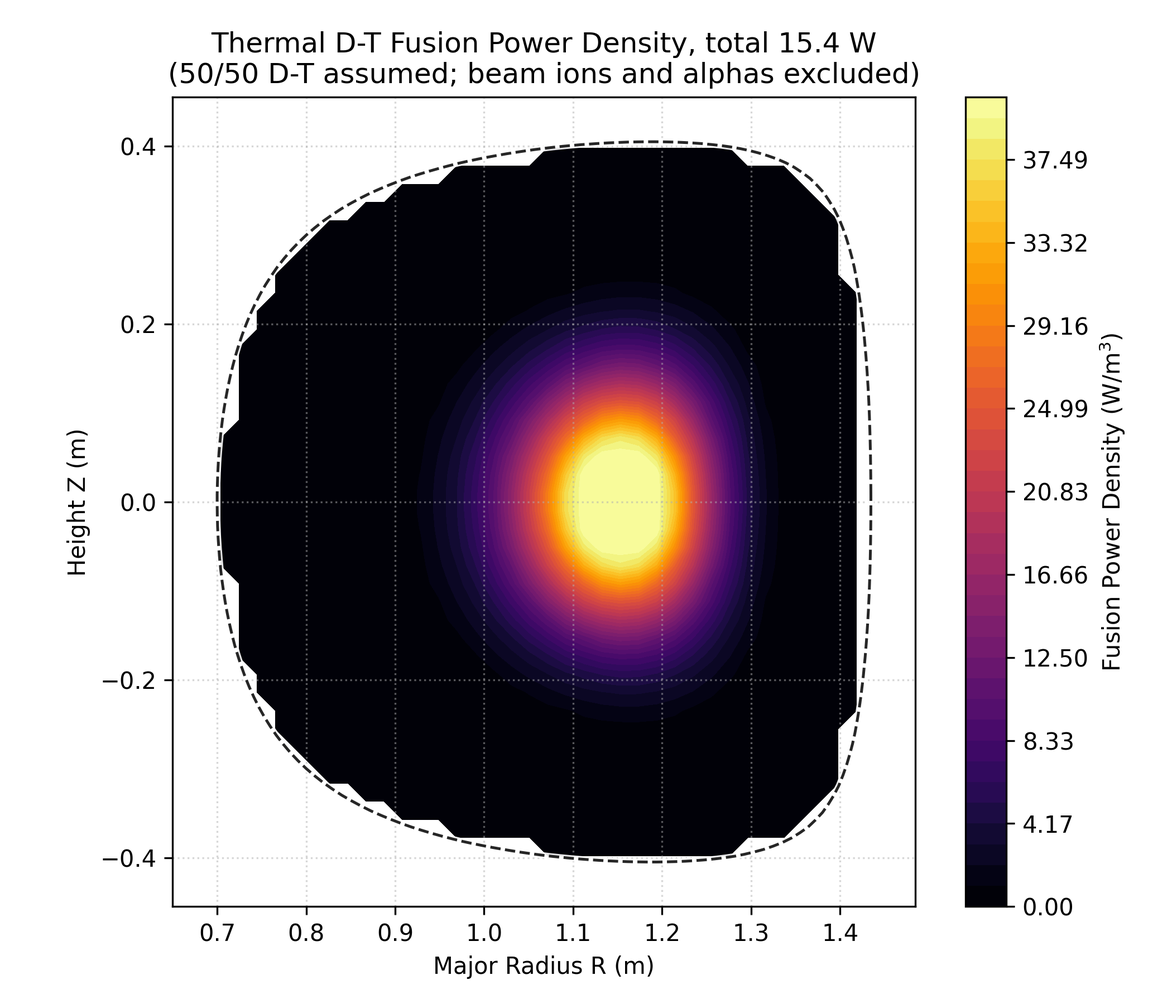
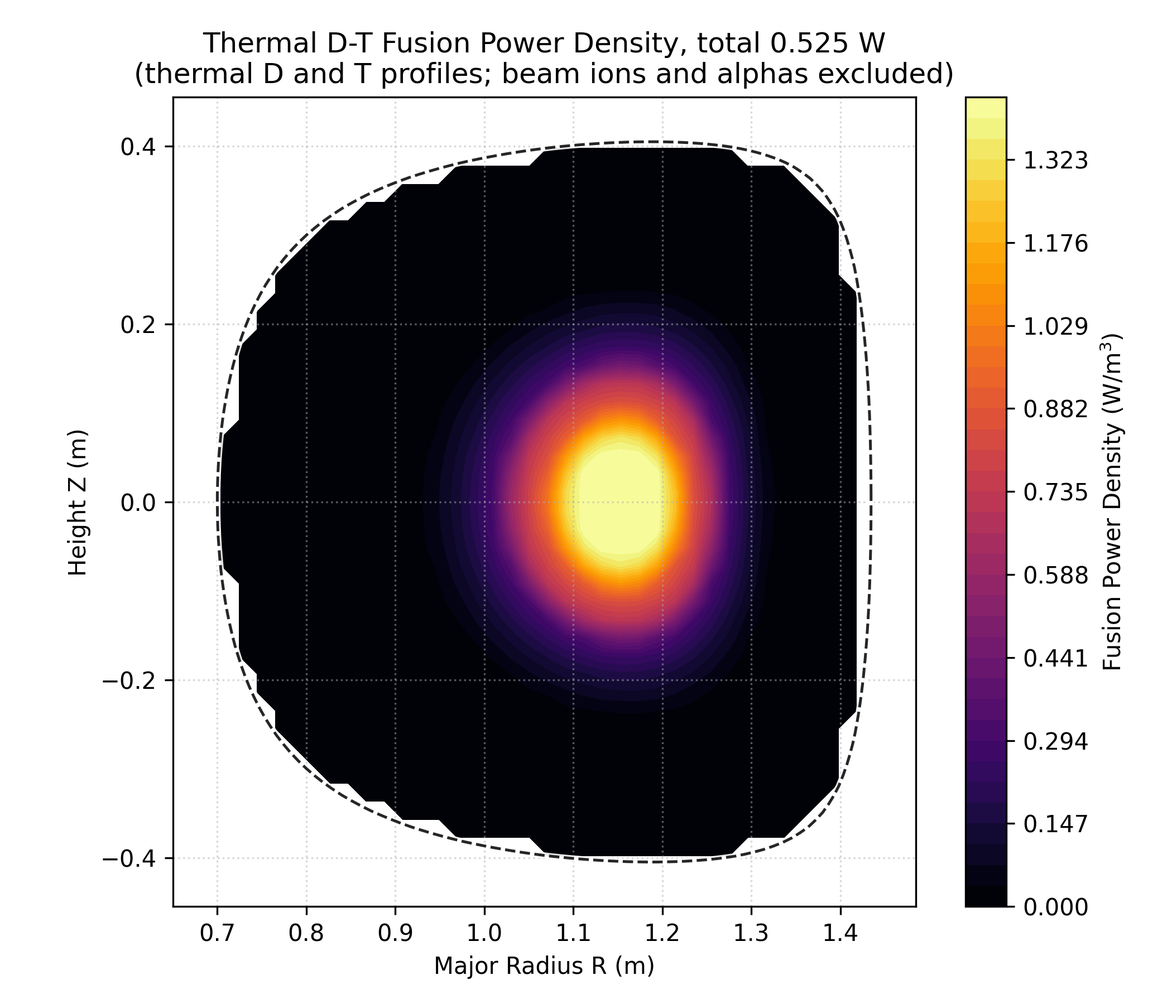
Tier2 Phase 6: plots and README describe the Tier 2 species and sources
Plots:
- radial_profiles.png: thermal T is its own species; the "thermal beta"
  in the title is now D + T (it read species 0 only).
- plasma_stored_energy_time.png: one trace per species (thermal D,
  thermal T dashed, beam D, alpha) in joules on a log axis.
- tokamak_reactor_2d/3d.png, alpha_orbits.png, phase_space_map.png:
  thermal tritium drawn in its own colour with its own legend entry.
- alpha_orbits.png: title says the alphas are born from the computed
  thermal D-T fusion rate (it still samples the tracked alphas).
- fusion_power_density.png: the 50/50 D-T disclaimer is replaced by
  "thermal D and T profiles; beam ions and alphas excluded".
Plot names are unchanged, so tools/plot_manifest.py is too;
record-plots + compare-plots pass.

README: species and pools, per-species weights, the beam calibrated by
power, the fusion-driven alpha source, thermal-only temperature and
Lawson inputs. Limitations drop the scheduled-alpha, 50/50 D-T and
beam-strength entries and state that collisions are still fixed-rate
isotropic re-randomisation, alpha drag a fixed ALPHA_SLOWING_TIME, the
10 us run far shorter than either slowing-down time, and that the SPI
drain also scales beam ions. Performance gains an "after Tier 2" line
(55 s).

docs/images: alpha_orbits, fusion_power_density and tokamak_reactor_3d
from a fresh production run (FUSION_HEADLESS=1 python main.py).

diff --git a/diagnostics.py b/diagnostics.py
@@ -18,7 +18,10 @@ import numpy as np
 import pandas as pd
 from matplotlib.lines import Line2D
 from visualizer import PlasmaVisualizer
-from physics_engine import interpolate_psi_array
+from physics_engine import interpolate_psi_array, STORED_ENERGY_SPECIES
+
+# One colour per species for the line plots (profiles, stored energy), keyed by type code.
+SPECIES_COLOR = {0: "tab:blue", 1: "tab:orange", 2: "tab:pink", 3: "tab:green"}
 
 
 def _show():
@@ -213,12 +216,21 @@ def run_steady_state_diagnostics(cfg, eq, rho_grid, phi_grid, stored_energy_J, a
     # --- STORED ENERGY WAVEFORM ---
     # stored_energy_J has one row per step and one weighted column per species
     # (physics_engine.STORED_ENERGY_SPECIES: thermal D, thermal T, beam D, alpha),
-    # real joules. The trace is the thermal + beam ion total (alphas excluded).
-    plt.figure(figsize=(8, 4))
-    _ion_J = stored_energy_J[:, :3].sum(axis=1) if stored_energy_J.ndim == 2 else stored_energy_J
-    plt.plot(np.arange(len(_ion_J)) * cfg.reactor_dt * 1e6, _ion_J / 1.0e3, color='firebrick', linewidth=1.5)
-    plt.ylabel("Stored Ion Kinetic Energy (kJ)")
-    plt.title("Stored Kinetic Energy of Thermal + Beam Ions vs. Time")
+    # real joules. One trace per species on a log axis: the thermal ions hold
+    # ~1e4 J, the 33 MW beam ~1e2 J after 10 us, the fusion alphas ~1e-4 J.
+    plt.figure(figsize=(8, 4.5))
+    _t_us = np.arange(stored_energy_J.shape[0]) * cfg.reactor_dt * 1e6
+    for _col, (_code, _label) in enumerate(STORED_ENERGY_SPECIES):
+        _E = stored_energy_J[:, _col]
+        _ok = _E > 0.0
+        if np.any(_ok):
+            # Thermal T dashed: it lies on top of thermal D (same load, same weight).
+            plt.plot(_t_us[_ok], _E[_ok], color=SPECIES_COLOR[_code], linewidth=1.5, label=_label,
+                     linestyle='--' if _code == 3 else '-')
+    plt.yscale('log')
+    plt.ylabel("Stored Kinetic Energy (J)")
+    plt.legend(loc='best')
+    plt.title("Stored Kinetic Energy per Species vs. Time")
     plt.xlabel("Time ($\\mu s$)")
     plt.grid(True, alpha=0.3)
     plt.tight_layout()
@@ -266,6 +278,8 @@ def run_steady_state_diagnostics(cfg, eq, rho_grid, phi_grid, stored_energy_J, a
             ax.plot(R_path[-1], Z_path[-1], marker='x', color='crimson', markersize=5, alpha=0.8, zorder=2)
         elif p["type"] == 1:
             ax.plot(R_path, Z_path, color='gold', alpha=0.7, linewidth=1.2, zorder=4)
+        elif p["type"] == 3:
+            ax.plot(R_path, Z_path, color='limegreen', alpha=0.2, linewidth=0.8, zorder=3)
         else:
             ax.plot(R_path, Z_path, color='dodgerblue', alpha=0.2, linewidth=0.8, zorder=3)
 
@@ -281,7 +295,8 @@ def run_steady_state_diagnostics(cfg, eq, rho_grid, phi_grid, stored_energy_J, a
 
     custom_lines = [
         Line2D([0], [0], color='gold', lw=2, label='50 keV NBI Fast Ions (Injected)'),
-        Line2D([0], [0], color='dodgerblue', lw=2, label='1 keV Thermal Core Plasma'),
+        Line2D([0], [0], color='dodgerblue', lw=2, label='Thermal Deuterium'),
+        Line2D([0], [0], color='limegreen', lw=2, label='Thermal Tritium'),
         Line2D([0], [0], color='crimson', lw=2, label='Lost past last closed flux surface'),
         Line2D([0], [0], color='black', lw=1.4, linestyle='--',
                label='Last Closed Flux Surface ($\\psi_{edge}$)')
@@ -305,8 +320,9 @@ def run_steady_state_diagnostics(cfg, eq, rho_grid, phi_grid, stored_energy_J, a
     # rho = sqrt(psi_N). Log axes: the alpha temperature is ~1000x the thermal one.
     if flux_profiles is not None:
         rho_c = flux_profiles["rho_centers"]
-        species = ((0, "Thermal D", "tab:blue"), (1, "Beam D (50 keV NBI)", "tab:orange"),
-                   (2, "Alpha (3.5 MeV birth)", "tab:pink"))
+        species = ((0, "Thermal D", SPECIES_COLOR[0]), (3, "Thermal T", SPECIES_COLOR[3]),
+                   (1, "Beam D (50 keV NBI)", SPECIES_COLOR[1]),
+                   (2, "Alpha (3.5 MeV birth)", SPECIES_COLOR[2]))
         fig, axes = plt.subplots(3, 1, figsize=(8, 10), sharex=True)
         for s_idx, s_label, s_color in species:
             n_s = flux_profiles["n"][s_idx]
@@ -333,7 +349,8 @@ def run_steady_state_diagnostics(cfg, eq, rho_grid, phi_grid, stored_energy_J, a
         if "beta_avg" in flux_profiles:
             mu0 = 4.0e-7 * np.pi
             V = flux_profiles["shell_volume"]
-            beta_th = 2.0 * mu0 * float(np.sum(flux_profiles["p"][0] * V) / np.sum(V)) / cfg.B0**2
+            p_th = flux_profiles["p"][0] + flux_profiles["p"][3]          # thermal D + T
+            beta_th = 2.0 * mu0 * float(np.sum(p_th * V) / np.sum(V)) / cfg.B0**2
             beta_txt = (f"\n$\\langle\\beta\\rangle$ = {flux_profiles['beta_avg']:.2e} all species, "
                         f"{beta_th:.2e} thermal  ($B_0$ = {cfg.B0:g} T)")
         axes[0].set_title("Flux-Surface Profiles at End of Run (weighted)" + beta_txt)
@@ -343,15 +360,16 @@ def run_steady_state_diagnostics(cfg, eq, rho_grid, phi_grid, stored_energy_J, a
         plt.close()
 
     # --- PHASE-SPACE DISTRIBUTION ---
-    # Deuterons and alphas on separate panels, each scaled to its own largest |v_par|:
-    # alpha speeds (~1.3e7 m/s) are ~40x the thermal ones, so one shared axis either
-    # crushes the deuterons onto v_par = 0 or clips the fastest alphas.
+    # Thermal/beam ions and alphas on separate panels, each scaled to its own largest
+    # |v_par|: alpha speeds (~1.3e7 m/s) are ~40x the thermal ones, so one shared axis
+    # either crushes the ions onto v_par = 0 or clips the fastest alphas.
     if R_phase is not None and v_parallel_phase is not None and len(R_phase) > 0:
         R_ph = _scrub_1d(R_phase)
         v_ph = _scrub_1d(v_parallel_phase)
         sp = np.asarray(species_phase, dtype=int) if species_phase is not None and len(species_phase) == len(R_ph) \
             else np.zeros(len(R_ph), dtype=int)
-        groups = [("Thermal and beam deuterons", ((0, 'darkviolet', 'Thermal D'), (1, 'darkorange', 'Beam D'))),
+        groups = [("Thermal D and T, beam D", ((0, 'darkviolet', 'Thermal D'), (3, 'seagreen', 'Thermal T'),
+                                               (1, 'darkorange', 'Beam D'))),
                   ("Alphas", ((2, '#FF66CC', 'Alpha'),))]
         fig, axes = plt.subplots(1, 2, figsize=(13, 6))
         for ax_ph, (g_title, members) in zip(axes, groups):
@@ -377,9 +395,9 @@ def run_steady_state_diagnostics(cfg, eq, rho_grid, phi_grid, stored_energy_J, a
         plt.close()
 
     # --- THERMAL D-T FUSION POWER DENSITY ---
-    # P(psi_N) = (n_th/2)^2 <sigma v>(T_th) E_fus from the weighted thermal-ion profiles,
-    # mapped through psi_N. 50/50 D-T is assumed (no tritium species); beam ions and
-    # alphas are excluded.
+    # P(psi_N) = n_D n_T <sigma v>(T_i) E_fus from the weighted thermal D and thermal T
+    # profiles (T_i density-weighted), mapped through psi_N. Beam ions and alphas are
+    # excluded.
     if P_fusion_grid is not None:
         plt.figure(figsize=(7, 6))
         P_clean = np.where(_confinement_mask, np.nan, P_fusion_grid.T)
@@ -389,7 +407,7 @@ def run_steady_state_diagnostics(cfg, eq, rho_grid, phi_grid, stored_energy_J, a
         plt.colorbar(contour_pf, label="Fusion Power Density (W/m$^3$)")
         total_txt = f", total {total_fusion_power_watts:.3g} W" if total_fusion_power_watts is not None else ""
         plt.title("Thermal D-T Fusion Power Density" + total_txt +
-                  "\n(50/50 D-T assumed; beam ions and alphas excluded)")
+                  "\n(thermal D and T profiles; beam ions and alphas excluded)")
         plt.xlabel("Major Radius R (m)")
         plt.ylabel("Height Z (m)")
         _draw_wall(plt.gca())
@@ -409,6 +427,7 @@ def run_steady_state_diagnostics(cfg, eq, rho_grid, phi_grid, stored_energy_J, a
         eq.plot_equilibrium(ax=ax)
 
         thermal_count = 0
+        trit_count = 0
         nbi_count = 0
         
         # 1. Background particles first (zorder 1 and 2) so they don't cover the alphas
@@ -419,6 +438,9 @@ def run_steady_state_diagnostics(cfg, eq, rho_grid, phi_grid, stored_energy_J, a
                 if p.get("type") == 0 and thermal_count < 50:
                     ax.plot(R_path, traj[:, 2], color='cyan', alpha=0.4, linewidth=1.0, zorder=1)
                     thermal_count += 1
+                elif p.get("type") == 3 and trit_count < 50:
+                    ax.plot(R_path, traj[:, 2], color='limegreen', alpha=0.4, linewidth=1.0, zorder=1)
+                    trit_count += 1
                 elif p.get("type") == 1 and nbi_count < 50:
                     ax.plot(R_path, traj[:, 2], color='orange', alpha=0.4, linewidth=1.0, zorder=2)
                     nbi_count += 1
@@ -466,13 +488,15 @@ def run_steady_state_diagnostics(cfg, eq, rho_grid, phi_grid, stored_energy_J, a
         ax.set_ylim(*VIEW_YLIM)
         ax.set_aspect('equal')
                 
-        ax.set_title("3.5 MeV Alpha Orbits vs Thermal Background")
+        ax.set_title("3.5 MeV Alpha Orbits vs Thermal Background\n"
+                     "(alphas born from the computed thermal D-T fusion rate)")
         ax.set_xlabel("Major Radius R (m)")
         ax.set_ylabel("Height Z (m)")
         
         custom_lines = [
             Line2D([0], [0], color='#FF66CC', lw=2, label='3.5 MeV Helium-4 (Alpha)'),
-            Line2D([0], [0], color='cyan', lw=2, label='Thermal Background Ion'),
+            Line2D([0], [0], color='cyan', lw=2, label='Thermal Deuterium'),
+            Line2D([0], [0], color='limegreen', lw=2, label='Thermal Tritium'),
             Line2D([0], [0], color='orange', lw=2, label='50 keV NBI Fast Ion')
         ]
         _leg_a = ax.legend(handles=custom_lines, loc='upper right', framealpha=0.95)

diff --git a/visualizer.py b/visualizer.py
@@ -35,7 +35,7 @@ class PlasmaVisualizer:
         output_file: str = "multi_particle_torus.png",
         R0: float = 1.0,
         r0: float = 0.3,
-        classifications: list = None,  # Optional: 0 = Passing, 1 = Trapped, -1 = Lost
+        classifications: list = None,  # Optional species codes: 0 thermal D, 1 beam D, 2 alpha, 3 thermal T, -1 lost
         wall_contour=None,             # Optional (R, Z) polygon of the psi_edge surface
     ):
         fig = plt.figure(figsize=(10, 8))
@@ -84,7 +84,11 @@ class PlasmaVisualizer:
                     line_alpha = 0.3
                     line_width = 1.2
                 elif c_type == 0:
-                    line_color = "dodgerblue"  # Passing particles
+                    line_color = "dodgerblue"  # Thermal deuterium
+                    line_alpha = 0.25
+                    line_width = 0.8
+                elif c_type == 3:
+                    line_color = "limegreen"   # Thermal tritium
                     line_alpha = 0.25
                     line_width = 0.8
                 elif c_type == -1:
@@ -131,7 +135,8 @@ class PlasmaVisualizer:
         from matplotlib.lines import Line2D
         legend_elements = [
             Line2D([0], [0], color='gold', lw=2, label='50 keV NBI Fast Ions'),
-            Line2D([0], [0], color='dodgerblue', lw=2, label='1 keV Thermal Core Plasma'),
+            Line2D([0], [0], color='dodgerblue', lw=2, label='Thermal Deuterium'),
+            Line2D([0], [0], color='limegreen', lw=2, label='Thermal Tritium'),
             Line2D([0], [0], color='magenta', lw=2, label='3.5 MeV Alphas (Banana Orbits)'),
             Line2D([0], [0], color='crimson', lw=2, label='Lost past last closed flux surface'),
             Line2D([0], [0], color='gray', lw=6, alpha=0.35,

diff --git a/README.md b/README.md
@@ -1,8 +1,8 @@
 # Particle-In-Cell Tokamak Fusion Simulation
 
 A particle-in-cell style simulation of ions in a magnetically confined tokamak plasma. It
-solves a Grad–Shafranov equilibrium, pushes thermal deuterons, neutral-beam ions and 3.5 MeV
-alphas through the resulting field with a Boris integrator, removes particles that cross the
+solves a Grad–Shafranov equilibrium, pushes thermal deuterium and tritium, neutral-beam
+deuterons and 3.5 MeV fusion alphas through the resulting field with a Boris integrator, removes particles that cross the
 last closed flux surface, and writes 11 diagnostic plots. Read *Scope and limitations* before
 drawing conclusions from the numbers: several parts are prescribed rather than computed.
 
@@ -16,41 +16,46 @@ Written in Python with Numba JIT and PyTorch backends.
 
 Each timestep of the reactor run does the following, in this order:
 
-1. **Sources.** Neutral beam injection adds 50 keV ions on a decaying schedule. One 3.5 MeV alpha is injected every 4 steps on a fixed schedule.
-2. **Electric field.** At step 0 and every 100 steps, the thermal-ion density and pressure profiles are measured on flux surfaces and the radial electric field is rebuilt from ion force balance on a 50×50 (R, Z) grid.
-3. **Field lookup.** Each particle gets the local electric field from that grid and a magnetic field made of the toroidal B0·R0/R field, the poloidal field derived from the Grad–Shafranov flux, and a prescribed tearing-mode perturbation.
-4. **Push.** The Boris integrator advances every particle's velocity and position under the Lorentz force. Alphas take 10 sub-steps per global step, with the field re-evaluated at each sub-step.
-5. **Collisions.** At a fixed rate, a bulk ion's velocity direction is re-drawn isotropically with its speed unchanged.
-6. **Losses.** Particles that cross the last closed flux surface are counted and removed.
-7. **Alpha slowing-down.** Alphas lose a fixed fraction of their energy per step, and that energy is added to the bulk ions.
-8. **Pellet trigger.** Once the prescribed tearing-mode amplitude passes a preset threshold, a scripted radiative drain starts scaling the bulk velocities down.
-9. **Diagnostics.** Confined count, stored energy, bulk temperature and the Lawson triple product are recorded each step. The flux-surface profiles, ion density map, phase-space map and fusion power map are computed once from the final state and plotted.
+1. **Beam source.** Neutral beam injection adds 50 keV deuterons at a constant injected power (33 MW).
+2. **Electric field and fusion rate.** At step 0 and every 100 steps, the thermal D and T density and pressure profiles are measured on flux surfaces. The radial electric field is rebuilt from ion force balance on a 50×50 (R, Z) grid, and the D–T reaction rate of each flux surface is recomputed from the same profiles.
+3. **Alpha source.** 3.5 MeV alphas are born from that computed reaction rate, on the flux surfaces where the reactions happen.
+4. **Field lookup.** Each particle gets the local electric field from that grid and a magnetic field made of the toroidal B0·R0/R field, the poloidal field derived from the Grad–Shafranov flux, and a prescribed tearing-mode perturbation.
+5. **Push.** The Boris integrator advances every particle's velocity and position under the Lorentz force. Alphas take 10 sub-steps per global step, with the field re-evaluated at each sub-step.
+6. **Collisions.** At a fixed rate, a bulk ion's velocity direction is re-drawn isotropically with its speed unchanged.
+7. **Losses.** Particles that cross the last closed flux surface are counted and removed.
+8. **Alpha slowing-down.** Alphas lose a fixed fraction of their energy per step, and that energy (weighted by each alpha's weight) is added to the thermal and beam ions.
+9. **Pellet trigger.** Once the prescribed tearing-mode amplitude passes a preset threshold, a scripted radiative drain starts scaling the thermal and beam ion velocities down.
+10. **Diagnostics.** Confined count, stored energy per species, the thermal-ion temperature and the Lawson triple product are recorded each step. The flux-surface profiles, ion density map, phase-space map and fusion power map are computed once from the final state and plotted.
 
 ## Physics and features
 
 **Magnetic equilibrium.** `mhd_equilibrium.py` solves the Grad–Shafranov equation by SOR on a 60×60 rectangular (R, Z) box with a −R² source and ψ = 0 on the box edge. The result is cached to disk, so repeated runs skip the solve. The poloidal field is taken from the gradient of ψ and rescaled so the edge safety factor is 2; the toroidal field is the analytic B0·R0/R. Both are interpolated to each particle's position. The plasma boundary is the ψ = ψ_edge contour, and the same contour is used for the loss test, the plots and the plasma volume.
 
-**Particle dynamics.** A 3D Boris pusher advances all particles. Thermal ions fill the whole last closed flux surface with peaked profiles, n = n₀(1 − ψ_N) and T = T₀(1 − ψ_N), where ψ_N runs from 0 on the magnetic axis to 1 at the boundary and T₀ = 1 keV. Each macroparticle stands for about 7×10¹⁵ ions, set so the volume-averaged density is 1×10²⁰ m⁻³ (n₀ ≈ 2×10²⁰ m⁻³). Thermal, beam and alpha macroparticles all carry that weight. The poloidal field gives the field lines a magnetic mirror, and trapped particles trace banana orbits; the alpha orbit plot shows them.
+**Species.** Four species, each in its own contiguous memory pool (deuterium, alphas, tritium) so every kernel runs on a contiguous array: thermal deuterium (type 0), beam deuterium (type 1), alphas (type 2) and thermal tritium (type 3, 3.016 u).
 
-**Collisions.** `apply_vectorized_collisions` gives each bulk ion a probability ν_c·dt per step (ν_c = 5000 s⁻¹) of having its velocity direction re-drawn uniformly on the sphere. Speed is preserved, so this is isotropic re-randomisation at a fixed rate, not an energy-dependent Coulomb operator. Alphas are not collided.
+**Particle dynamics.** A 3D Boris pusher advances all particles. The 50,000 thermal macroparticles are 25,000 D and 25,000 T, and each species fills the whole last closed flux surface with the same peaked profiles, n = n₀(1 − ψ_N) and T = T₀(1 − ψ_N), where ψ_N runs from 0 on the magnetic axis to 1 at the boundary and T₀ = 1 keV. The poloidal field gives the field lines a magnetic mirror, and trapped particles trace banana orbits; the alpha orbit plot shows them.
 
-**Neutral beam.** Beam ions are born at 50 keV near R = 1.05 m, inside the core flux surface, with a mostly perpendicular pitch. The batch size decays as exp(−step / 2500). Beam ions live in the same pool as the thermal ions and never slow down, so the reported bulk temperature (2/3 of the mean kinetic energy of that pool) rises as they accumulate.
+**Per-species weights.** Each macroparticle stands for a number of real ions set by its species. Thermal D and T carry about 7×10¹⁵, so the volume-averaged ion density is 1×10²⁰ m⁻³ (n_D + n_T on axis ≈ 2×10²⁰ m⁻³). Beam ions carry about 2×10¹² (set by the beam power, below), and each alpha carries the weight it was born with (about 2.5×10⁴ at the start of a run). Every quantity that turns macroparticles into physics multiplies by those weights: the flux-surface profiles and β, the ion density map, stored energy, the thermal temperature, the Lawson density, and the alpha-to-bulk energy transfer, which conserves real energy even though the weights differ by 10¹¹.
 
-**Alphas.** Alphas are not produced by fusion events. One is injected every 4 steps near R = 1.0 m, Z = 0 with an isotropic 3.5 MeV velocity. A 3.5 MeV alpha covers about 1.3 cm per 1 ns step against a 2.2 cm Larmor radius, so alphas take 10 Boris sub-steps per step, and the electric and magnetic fields are looked up again at every sub-step. An earlier version held the field fixed at the start-of-step position across all 10 sub-steps. That broke conservation of the magnetic moment and drove every alpha's pitch to v∥/v = −1 within about 2 µs. A test now checks that the magnetic moment is conserved. Each step an alpha gives up a fraction 2·ν_s·dt of its energy (down to a 15 keV floor), and the same energy is added to the bulk by scaling bulk speeds.
+**Collisions.** `apply_vectorized_collisions` gives each thermal and beam ion (D and T) a probability ν_c·dt per step (ν_c = 5000 s⁻¹) of having its velocity direction re-drawn uniformly on the sphere. Speed is preserved, so this is isotropic re-randomisation at a fixed rate, not an energy-dependent Coulomb operator. Alphas are not collided.
+
+**Neutral beam.** The beam is calibrated by power. The injected power P_NBI = 33 MW is an input (ITER's neutral-beam heating power), not a result. Two beam macroparticles are injected per step, each of weight w_beam = P_NBI·dt / (E_beam × 2) ≈ 2.06×10¹² deuterons, about 3,400 times lighter than a thermal macroparticle, so the weighted injected power is 33 MW while the beam keeps good statistics. Beam ions are born at 50 keV near R = 1.05 m, inside the core flux surface, with a mostly perpendicular pitch. They never slow down. Over a 10 µs run they reach a peak density of about 7×10¹⁶ m⁻³ and hold a few hundred joules.
+
+**Alphas.** Alphas are born from the computed thermal fusion rate. At every field update the D–T reaction rate of each flux surface, rate_k = n_D·n_T·⟨σv⟩(T_i)·V_k, is recomputed from the thermal profiles. One macro-alpha is born per step, with weight w_alpha = (Σ_k rate_k)·dt, so the weighted birth rate is the fusion reaction rate. A birth picks a surface with probability proportional to rate_k, then a position inside it by rejection sampling on ψ_N and a random toroidal angle, with an isotropic 3.5 MeV velocity. The alpha pool stores one weight per alpha, which it keeps for life. A 3.5 MeV alpha covers about 1.3 cm per 1 ns step against a 2.2 cm Larmor radius, so alphas take 10 Boris sub-steps per step, and the electric and magnetic fields are looked up again at every sub-step. An earlier version held the field fixed at the start-of-step position across all 10 sub-steps. That broke conservation of the magnetic moment and drove every alpha's pitch to v∥/v = −1 within about 2 µs. A test now checks that the magnetic moment is conserved. Each step an alpha gives up a fraction 2·ν_s·dt of its energy (down to a 15 keV floor), and the same energy is added to the bulk by scaling bulk speeds.
 
 <p align="center">
   <img src="docs/images/alpha_orbits.png" width="60%">
 </p>
 
-**Fusion power.** Thermal D–T fusion power is computed from the thermal-ion density and temperature profiles at the end of the run. The simulation has no tritium species, so the thermal ions are assumed to be a 50/50 D–T mix, n_D = n_T = n_thermal/2. On each flux surface P = n_D·n_T·⟨σv⟩(T)·17.6 MeV, with the Bosch–Hale reactivity. The total is the sum of P times shell volume over the surfaces, and the map shows P(ψ_N) drawn on the R–Z plane. Beam ions and alphas are excluded, so this is the thermonuclear power of the thermal plasma alone. With a 1 keV peak temperature that power is about 15 W.
+**Fusion power.** Thermal D–T fusion power is computed from the measured thermal-D and thermal-T profiles. On each flux surface P = n_D·n_T·⟨σv⟩(T_i)·17.6 MeV with the Bosch–Hale reactivity, where T_i is the density-weighted thermal-ion temperature (n_D·T_D + n_T·T_T)/(n_D + n_T). The total is the sum of P times shell volume over the surfaces, and the map shows P(ψ_N) at the end of the run drawn on the R–Z plane. Beam ions and alphas are excluded, so this is the thermonuclear power of the thermal plasma alone. On the freshly loaded plasma (1 keV peak) it is about 75 W; after the pellet quench it is about 0.5 W at the end of the run.
 
-**Lawson triple product.** Each step records n·T·τ with n = confined bulk macroparticles × the macroparticle weight ÷ plasma volume (about 1.1×10²⁰ m⁻³), T = the bulk temperature, and τ = confined count ÷ particle loss rate, capped at 3 s. Until the first particle is lost there is no loss rate and τ is a fixed placeholder, so the plot starts at the first loss. The plot draws a 3e21 keV·s·m⁻³ reference line. Gain and ignition are not modelled.
+**Lawson triple product.** Each step records n·T·τ with n = the weighted thermal-ion (D + T) density, real thermal ions ÷ plasma volume (1×10²⁰ m⁻³), T = the thermal-ion temperature (thermal D and T only, no beam ions or alphas), and τ = confined macroparticle count ÷ macroparticle loss rate, capped at 3 s. Until the first particle is lost there is no loss rate and τ is a fixed placeholder, so the plot starts at the first loss. The plot draws a 3e21 keV·s·m⁻³ reference line. Gain and ignition are not modelled.
 
-**Tearing mode and pellet injection.** The tearing mode is a prescribed perturbation: an m=2, n=1 field ripple whose amplitude follows b0·exp(γt) from config constants and is added to the magnetic field each particle sees. It does not respond to the plasma. Pellet injection is a scripted radiative drain: when that amplitude passes a preset threshold (about step 5,200 of 10,000), the bulk velocities are scaled down each step by an impurity-radiation formula evaluated at the measured bulk temperature, with a 10 eV floor.
+**Tearing mode and pellet injection.** The tearing mode is a prescribed perturbation: an m=2, n=1 field ripple whose amplitude follows b0·exp(γt) from config constants and is added to the magnetic field each particle sees. It does not respond to the plasma. Pellet injection is a scripted radiative drain: when that amplitude passes a preset threshold (about step 5,200 of 10,000), the thermal and beam ion velocities are scaled down each step by an impurity-radiation formula evaluated at the measured thermal-ion temperature, with a 10 eV floor. It cools the thermal ions from about 0.66 to 0.34 keV (density-weighted) by the end of the run.
 
-**Flux-surface profiles.** Particles are binned by ψ_N into 25 shells. Each shell's volume is measured from the equilibrium on a 400×400 (R, Z) mesh, and the shell volumes add up to the plasma volume within 0.03%. For each species (thermal, beam, alpha), and using that species' mass, each shell gives the weighted density, the mean flow in the local (R, φ, Z) basis, the temperature T = m⟨|v − u|²⟩/3, and the pressure nT. β = 2μ₀Σp/B₀² is reported as a volume average.
+**Flux-surface profiles.** Particles are binned by ψ_N into 25 shells. Each shell's volume is measured from the equilibrium on a 400×400 (R, Z) mesh, and the shell volumes add up to the plasma volume within 0.03%. For each species (thermal D, thermal T, beam D, alpha), and using that species' mass and weights, each shell gives the weighted density, the mean flow in the local (R, φ, Z) basis, the temperature T = m⟨|v − u|²⟩/3, and the pressure nT. β = 2μ₀Σp/B₀² is reported as a volume average.
 
-**Electric field.** The plasma is treated as quasi-neutral, as in orbit-following codes, and the radial field is taken from thermal-ion force balance with no rotation: E = ∇p_i/(e·n_i). As a flux function, dΦ/dψ_N = −(1/(e·n_i))·dp_i/dψ_N and E = −(dΦ/dψ_N)·∇ψ_N. The profiles are smoothed with cubic smoothing splines weighted by counting statistics before differentiating. Surfaces holding fewer than 100 thermal ions carry no field, and E is zero outside the last closed flux surface. The field is rebuilt from the current particles every 100 steps. Between updates the profiles change by about 0.3% against 2% counting noise. In a production run Φ on axis is about −1.9 kV, |E| is about 6 kV/m typically and 15 kV/m at most, and the E×B drift is at most 1.3 km/s, small against the 3×10⁵ m/s thermal speed. A self-consistent electrostatic solve would have to resolve a Debye length of about 2×10⁻⁵ m and the electron plasma frequency, which is out of reach at this scale.
+**Electric field.** The plasma is treated as quasi-neutral, as in orbit-following codes, and the radial field is taken from thermal-ion force balance with no rotation: E = ∇p_i/(e·n_i), with n_i = n_D + n_T and p_i = p_D + p_T. As a flux function, dΦ/dψ_N = −(1/(e·n_i))·dp_i/dψ_N and E = −(dΦ/dψ_N)·∇ψ_N. The profiles are smoothed with cubic smoothing splines weighted by counting statistics before differentiating. Surfaces holding fewer than 100 thermal ions carry no field, and E is zero outside the last closed flux surface. The field is rebuilt from the current particles every 100 steps. Between updates the profiles change by about 0.3% against 2% counting noise. In a production run, before the pellet quench, Φ on axis is about −1.9 kV, |E| is about 6 kV/m typically and 15 kV/m at most (about −1.0 kV and 8 kV/m at the end of the run), and the E×B drift is at most 1.3 km/s, small against the 3×10⁵ m/s thermal speed. A self-consistent electrostatic solve would have to resolve a Debye length of about 2×10⁻⁵ m and the electron plasma frequency, which is out of reach at this scale.
 
 **Ion density map.** The weighted ion density is deposited on the 50×50 grid with cloud-in-cell weights, once, from the final state.
 
@@ -68,29 +73,29 @@ A reactor run writes 10 plots to the working directory. The benchmark writes one
 |---|---|
 | `tokamak_reactor_2d.png` | Sampled particle trajectories in the poloidal plane over the flux surfaces, with the last closed flux surface and wall strikes. |
 | `tokamak_reactor_3d.png` | The same trajectories in 3D, with a sample of alpha orbits. |
-| `alpha_orbits.png` | A sample of 3.5 MeV alpha orbits against thermal and beam-ion tracks. |
-| `phase_space_map.png` | Major radius against velocity parallel to the local magnetic field for every surviving particle, with deuterons and alphas on separate panels, each scaled to its own largest \|v∥\|. |
+| `alpha_orbits.png` | A sample of the tracked 3.5 MeV alpha orbits (born from the computed fusion rate) against thermal D, thermal T and beam-ion tracks. |
+| `phase_space_map.png` | Major radius against velocity parallel to the local magnetic field for every surviving particle, with thermal D, thermal T and beam ions on one panel and alphas on the other, each scaled to its own largest \|v∥\|. |
 
 **Time traces**
 
 | Output | What it shows |
 |---|---|
-| `plasma_stored_energy_time.png` | Weighted kinetic energy of the thermal and beam ions over time (kJ). |
+| `plasma_stored_energy_time.png` | Weighted kinetic energy of each species (thermal D, thermal T, beam D, alpha) over time, in joules, on a log axis. |
 | `lawson_triple_product.png` | The triple product described above, against the 3e21 keV·s·m⁻³ reference line. |
 
 **Profiles and fields** (all weighted, physical units)
 
 | Output | What it shows |
 |---|---|
-| `radial_profiles.png` | Density, temperature and pressure of each species against ρ = √ψ_N, with volume-averaged β in the title. |
-| `fusion_power_density.png` | Thermal D–T fusion power density in W/m³ (50/50 D–T assumed; beam ions and alphas excluded), with the total. |
+| `radial_profiles.png` | Density, temperature and pressure of each species (thermal D, thermal T, beam D, alpha) against ρ = √ψ_N, with volume-averaged β in the title. |
+| `fusion_power_density.png` | Thermal D–T fusion power density in W/m³ from the thermal D and T profiles (beam ions and alphas excluded), with the total. |
 | `ion_density_map.png` | Ion density (m⁻³), weighted cloud-in-cell deposition of every ion at the end of the run. |
 | `potential_field_map.png` | Potential Φ (V) of the quasi-neutral field from ion pressure balance, with no rotation. |
 
 <p align="center">
   <img src="docs/images/fusion_power_density.png" width="60%">
 </p>
-<p align="center"><em>Thermal D–T fusion power density from the flux-surface profiles (50/50 D–T assumed).</em></p>
+<p align="center"><em>Thermal D–T fusion power density from the thermal D and T flux-surface profiles, end of run.</em></p>
 
 ### Standalone diagnostic
 
@@ -101,7 +106,7 @@ A reactor run writes 10 plots to the working directory. The benchmark writes one
 ### Reading the results
 
 - **Tied to the simulation:** every plot is measured from the particles the loop pushes. Densities, pressures, the triple product and the fusion power carry the macroparticle weight, so they are in physical units.
-- **Assumptions to keep in mind:** the fusion power assumes a 50/50 D–T mix and counts only thermal ions. The potential is a force-balance field with no rotation, not an electrostatic solve. The alpha population comes from a fixed injection schedule, so the alpha density and pressure, and the β they dominate, are not tied to the fusion rate. See *Scope and limitations*.
+- **Assumptions to keep in mind:** the fusion power counts only thermal ions. The potential is a force-balance field with no rotation, not an electrostatic solve. Beam and alpha slowing-down are not modelled physically, and the run is far shorter than either slowing-down time, so neither source visibly heats the plasma. See *Scope and limitations*.
 
 ---
 
@@ -114,8 +119,9 @@ Production case: 50,000 particles, 10,000 steps, CPU/Numba path.
 | baseline | 88.4 s |
 | optimized | 33.0 s |
 | after the Tier 1 physics changes | 34.6 s |
+| after the Tier 2 physics changes | 55 s |
 
-The Tier 1 line is slightly slower than the optimized one, and the difference buys accuracy. The main cost is that alphas now look up the field at every one of their 10 sub-steps instead of once per step. Replacing the per-step Poisson solve with a force-balance field rebuilt every 100 steps made up most of that cost.
+The Tier 1 line is slightly slower than the optimized one, and the difference buys accuracy. The main cost is that alphas now look up the field at every one of their 10 sub-steps instead of once per step. Replacing the per-step Poisson solve with a force-balance field rebuilt every 100 steps made up most of that cost. The Tier 2 line pays for physical sources: the power-calibrated beam injects 20,000 beam macroparticles per run (about 6,000 before), and the fusion-driven source 10,000 sub-stepped alphas (2,500 before).
 
 The dominant cost in the original loop was not computation. Profiling showed roughly 65% of
 the Boris push stage was masked gather/scatter — building boolean masks over the full particle
@@ -125,7 +131,7 @@ contiguous per-species memory pools removed that pattern entirely; the two sub-t
 measured it now total 0.006 s of a 20.4 s stage.
 
 Every optimization was verified numerically inert against a byte-level regression harness:
-34 arrays (43 entries including run metadata), bit-identical, strict `rtol=1e-6`. The 2,437-line main module was subsequently
+every recorded array, bit-identical, strict `rtol=1e-6`. The 2,437-line main module was subsequently
 split into eight modules across eight commits, each one proven bit-identical.
 
 ---
@@ -135,18 +141,15 @@ split into eight modules across eight commits, each one proven bit-identical.
 - **No electrons, quasi-neutral field.** There is no electron population. The electric field
   comes from radial force balance on the thermal ions, not from a charge-density solve, and it
   assumes no rotation: E_r has no v×B flow terms. It is rebuilt every 100 steps, not every step.
-- **50/50 D–T assumed.** All ions carry the deuteron mass, and there is no tritium species.
-  The fusion power treats half of the thermal density as tritium. Beam ions and alphas
-  contribute no fusion power.
-- **The alpha source is scheduled.** One alpha is injected every 4 steps regardless of the
-  fusion rate, and each carries the full macroparticle weight. That source is about 10¹¹ times
-  the alpha production the computed fusion power implies, so the alpha density and pressure
-  are not physical. Alphas dominate the reported β (about 0.03, against 2×10⁻⁴ from the
-  thermal ions alone).
-- **NBI ions never slow down**, and they share the bulk pool, so the reported bulk temperature
-  (2/3 of the mean kinetic energy of that pool) rises as they accumulate.
-- **Collisions are a fixed-rate isotropic re-randomisation** of bulk-ion velocity direction,
-  not pitch-angle scattering from a Coulomb operator.
+- **Beam ions and alphas contribute no fusion power.** Only thermal D–T reactions are counted.
+- **Collisions are still fixed-rate isotropic re-randomisation** of thermal- and beam-ion
+  velocity direction, not pitch-angle scattering or drag from a Coulomb operator. Beam ions
+  never slow down.
+- **Alpha slowing-down uses a fixed time constant** (`ALPHA_SLOWING_TIME`), not a
+  Fokker–Planck operator.
+- **The run is 10 µs long**, far shorter than beam and alpha slowing-down times
+  (milliseconds to seconds), so heating by either source is not expected to be visible.
+- **The pellet drain also scales the beam ions** by the thermal-plasma loss fraction.
 - **The tearing mode and pellet injection are prescribed.** The perturbation amplitude is an
   exponential set by config constants, and the radiative drain fires when that amplitude
   passes a preset value.
@@ -154,8 +157,8 @@ split into eight modules across eight commits, each one proven bit-identical.
   bremsstrahlung or cyclotron loss. The only radiative loss is the scripted drain after the
   pellet trigger. The 3e21 line on the triple-product plot is a reference value, and the
   trace's confinement time is a particle-loss proxy, drawn only from the first loss on.
-- **Alpha birth and the tearing-mode phase are centred on R = 1.0 m**, while the magnetic
-  axis of the solved equilibrium is at R = 1.16 m.
+- **The tearing-mode phase is centred on R = 1.0 m**, while the magnetic axis of the solved
+  equilibrium is at R = 1.16 m. (Alpha births follow the flux surfaces.)
 
 ---
 
@@ -252,14 +255,14 @@ the workload to the GPU, whereas a discrete card can. On Apple Silicon, memory b
 
 | module | lines | holds |
 |---|---|---|
-| `reactor_gpu.py` | 608 | the PyTorch reactor loop |
-| `reactor_cpu.py` | 595 | the Numba reactor loop, adaptive Boris push |
-| `main.py` | 315 | entry points, loop dispatch, result packaging |
-| `physics_engine.py` | 1294 | physics kernels, CPU and torch |
-| `track_store.py` | 280 | trajectory sampling, pid→row maps |
+| `reactor_gpu.py` | 724 | the PyTorch reactor loop |
+| `reactor_cpu.py` | 704 | the Numba reactor loop, adaptive Boris push |
+| `main.py` | 298 | entry points, loop dispatch, result packaging |
+| `physics_engine.py` | 1460 | physics kernels, CPU and torch; profiles, fusion rate, alpha birth sampler |
+| `track_store.py` | 278 | trajectory sampling, pid→row maps |
 | `profiling.py` | 162 | per-stage wall-clock instrumentation |
-| `particle_pool.py` | 166 | capacity-backed particle pools, compaction |
-| `kernels.py` | 241 | field gather, collisions |
+| `particle_pool.py` | 229 | capacity-backed particle pools (optional per-particle weight), compaction |
+| `kernels.py` | 242 | field gather, collisions |
 | `benchmarks.py` | 75 | hardware scaling sweep |
 
 Plus `config.py`, `mhd_equilibrium.py` (Grad–Shafranov solve with disk cache),
